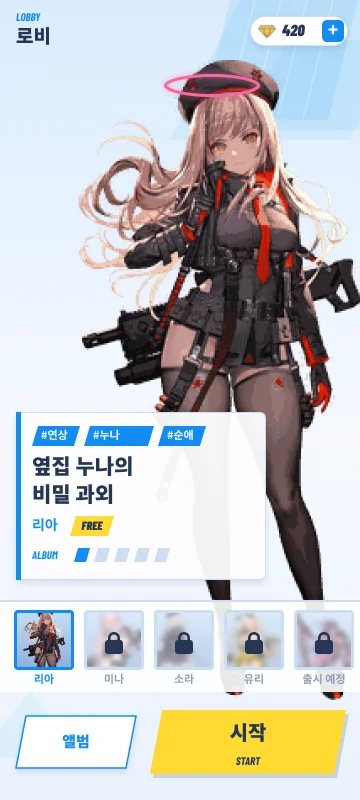
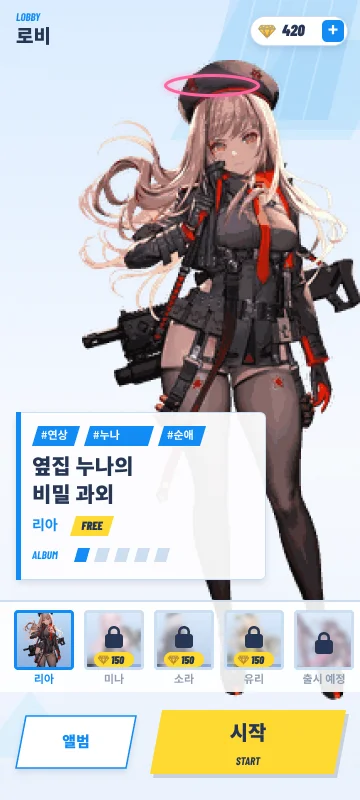
Mockup: original pacing with faster in-game clear, tap indicators on every auto step; lobby quick-open gem badges
Claude-Session: https://claude.ai/code/session_01QC4LnGUoEV4hPAaGSGh6GF

Changed region(s): [[0.4278, 0.7812, 0.5806, 0.8438], [0.2444, 0.7812, 0.3972, 0.8438], [0.6417, 0.7812, 0.7639, 0.8438]]

diff --git a/japan-project/jintori-mockup/index.html b/japan-project/jintori-mockup/index.html
@@ -60,6 +60,9 @@ html,body{margin:0;height:100%;background:var(--bg);color:var(--ink);font-family
 .pwrap img{width:100%;display:block}
 .veil{position:absolute;left:0;right:0;bottom:0;height:20%;background:rgba(230,240,255,.55);backdrop-filter:blur(9px);-webkit-backdrop-filter:blur(9px);transition:height 1.1s ease}
 .chip{display:inline-block;background:var(--accent2);color:#fff;font:900 italic 18px/1 "Barlow Condensed",system-ui;padding:6px 14px;transform:skewX(-12deg);margin-bottom:8px}
+.tap{position:absolute;width:44px;height:44px;margin:-22px 0 0 -22px;border-radius:50%;background:rgba(255,102,153,.35);border:3px solid #fff;box-shadow:0 0 0 3px rgba(255,102,153,.6);pointer-events:none;z-index:30;display:none}
+.tap.on{display:block;animation:tapk .5s ease-out}
+@keyframes tapk{0%{transform:scale(1.6);opacity:0}60%{transform:scale(.85);opacity:1}100%{transform:scale(1)}}
 .finger{position:absolute;width:26px;height:26px;margin:-13px 0 0 -13px;border-radius:50%;border:3px solid #fff;background:rgba(255,102,153,.55);box-shadow:0 0 0 3px rgba(255,102,153,.35);pointer-events:none;z-index:4;display:none}
 </style>
 </head>
@@ -68,7 +71,7 @@ html,body{margin:0;height:100%;background:var(--bg);color:var(--ink);font-family
   <div class="hud"><div class="stage"><span id="stageT">STAGE 1-1</span></div><div class="timer" id="timer">01:30</div></div>
   <div class="bar"><div class="pct" id="pct">0%</div><div class="track"><div class="fill" id="fill"></div><div class="goal"></div></div></div>
   <canvas id="board" width="296" height="380" aria-label="땅따먹기 퍼즐 보드"></canvas>
-  <div class="finger" id="finger"></div>
+  <div class="finger" id="finger"></div><div class="tap" id="tap"></div>
   <div class="chat" id="chat"><img src="avatar.webp" alt=""><div><b>리아</b><p id="chatText"></p></div></div>
   <div class="pop" id="pop"></div>
   <div class="foot"><div class="hint" id="hint">테두리에서 출발해 선을 긋고, 다시 테두리로 돌아오면 영역을 먹어요</div>
@@ -96,8 +99,8 @@ html,body{margin:0;height:100%;background:var(--bg);color:var(--ink);font-family
     <div class="row"><button class="btn" id="toFlow" type="button">챕터 맵으로 ▶</button><button class="btn ghost" id="again" type="button">다시 하기</button></div>
   </div></div>
 
-  <div class="ov" id="flow" style="padding:0;background:#000"><img id="flowImg" alt="" style="width:100%;height:100%;object-fit:cover;object-position:top;display:block;cursor:pointer">
-    <div style="position:absolute;left:0;right:0;bottom:0;padding:10px 12px 14px;background:linear-gradient(transparent,rgba(10,18,32,.85));display:flex;align-items:center;gap:10px">
+  <div class="ov" id="flow" style="padding:0;background:var(--bg)"><img id="flowImg" alt="" style="width:100%;height:100%;object-fit:contain;object-position:center top;background:var(--bg);display:block;cursor:pointer">
+    <div style="position:absolute;left:0;right:0;top:0;padding:8px 10px;background:rgba(10,18,32,.78);display:flex;align-items:center;gap:10px">
       <div id="flowCap" style="flex:1;color:#fff;font-weight:900;font-size:14px"></div><button class="btn" id="flowNext" type="button" style="min-width:110px;padding:11px 14px">다음 ▶</button></div></div>
   <div class="ov" id="tov"><div class="card">
     <h2 style="color:var(--accent2)">TIME UP</h2><h3 id="tmsg">조금만 더 열면 사진 1!</h3>
@@ -199,9 +202,9 @@ function afterGain(){
   count();
   var hotJust=false;if(!hotDone&&hotRatio()>.55){hotDone=true;hotJust=true;grow(.05);count();popup('+5%  거, 거긴… 민감한데♡');}
   if(!events.c25&&claimed>=.25){events.c25=true;say('조금만 더… 응원할게♡');}
-  if(!events.q50&&claimed>=.5){events.q50=true;paused=true;setTimeout(askQuestion,auto?(hotJust?900:250):(hotJust?1500:500));}
+  if(!events.q50&&claimed>=.5){events.q50=true;paused=true;setTimeout(askQuestion,hotJust?1500:500);}
   if(!events.c75&&claimed>=.75){events.c75=true;say('거의 다 왔어… 끝까지 봐줘♡');}
-  if(claimed>=.8&&!over){over=true;setTimeout(win,auto?800:1400);}
+  if(claimed>=.8&&!over){over=true;setTimeout(win,1400);}
 }
 
 // ---------- dialogue ----------
@@ -210,7 +213,7 @@ function say(t,bonus){var c=document.getElementById('chat'),p=document.getElemen
 function popup(t){var p=document.getElementById('pop');p.textContent=t;p.classList.add('on');clearTimeout(popT);popT=setTimeout(function(){p.classList.remove('on');},1800);}
 function askQuestion(){paused=true;var o=document.getElementById('qov');o.classList.add('on');
   Array.prototype.forEach.call(o.querySelectorAll('.opt'),function(b){b.classList.remove('pick');});
-  if(auto){setTimeout(function(){var b=o.querySelector('.opt[data-a="like"]');b.classList.add('pick');setTimeout(function(){answer('like');},450);},800);}}
+  if(auto){setTimeout(function(){var b=o.querySelector('.opt[data-a="like"]');tapEl(b,function(){b.classList.add('pick');setTimeout(function(){answer('like');},500);});},1100);}}
 function answer(a){document.getElementById('qov').classList.remove('on');paused=false;lastT=0;
   if(a==='like'){grow(.10);dirtyAll=true;count();say('+10%  …그런 말 하면 반칙이야♡',true);}
   else if(a==='bad'){shrink(.05);count();say('−5%  흥, 몰라.');}
@@ -219,28 +222,30 @@ function answer(a){document.getElementById('qov').classList.remove('on');paused=
 document.querySelectorAll('#qov .opt').forEach(function(b){b.addEventListener('click',function(){if(!auto)answer(b.getAttribute('data-a'));});});
 function win(){paused=true;for(var i=0;i<g.length;i++)if(g[i]!==CLAIM)g[i]=CLAIM;dirtyAll=true;count();
   var t0=performance.now();(function fade(){var k=Math.min(1,(performance.now()-t0)/600);fadeK=k;if(k<1)requestAnimationFrame(fade);else setTimeout(showClear,400);})();}
-var FLOW_MAIN=[['06-map','챕터 맵 · 수위가 점점 높아지는 사진'],['07-ending','엔딩 가챠 · 사진을 다 모으면'],['08-result','결과 · 최고 등급이면 최고 수위 + 짧은 영상']];
-var FLOW_LITE=[["lt01","챕터 맵 · 다음 사진으로"],['lt00','챕터 목록 · 다음 캐릭터']];
+function tapAt(x,y,cb){var t=document.getElementById('tap');t.style.left=x+'px';t.style.top=y+'px';t.classList.remove('on');void t.offsetWidth;t.classList.add('on');setTimeout(function(){t.classList.remove('on');cb&&cb();},650);}
+function tapEl(el,cb){var a=app.getBoundingClientRect(),r=el.getBoundingClientRect(),k=a.width/360;tapAt((r.left+r.width/2-a.left)/k,(r.top+r.height/2-a.top)/k,cb);}
+var FLOW_MAIN=[['06-map','챕터 맵 · 수위가 점점 높아지는 사진',180,740],['07-ending','엔딩 가챠 · 사진을 다 모으면',235,738],['08-result','결과 · 최고 등급이면 최고 수위 + 짧은 영상',255,738]];
+var FLOW_LITE=[['lt01','챕터 맵 · 다음 사진으로',180,738],['lt00','챕터 목록 · 다음 챕터',96,400]];
 var fi=0,flowT=null;
 function flowList(){return LITE?FLOW_LITE:FLOW_MAIN;}
 function showFlow(i){var L=flowList();fi=i;var d=root.getAttribute('data-design')==='a'?'proposal-screens':'proposal-screens-b';
   document.getElementById('flowImg').src='../'+d+'/'+L[i][0]+'.webp';document.getElementById('flowCap').textContent=L[i][1];
   document.getElementById('flowNext').textContent=i<L.length-1?'다음 ▶':'처음부터 ↺';
   document.getElementById('clear').classList.remove('on');document.getElementById('flow').classList.add('on');
-  clearTimeout(flowT);if(autoFlow)flowT=setTimeout(nextFlow,1900);}
+  clearTimeout(flowT);if(autoFlow)flowT=setTimeout(function(){var it=L[i];tapAt(36+it[2]*.8,it[3]*.8,nextFlow);},2300);}
 function nextFlow(){var L=flowList();if(fi<L.length-1)showFlow(fi+1);else{autoFlow=false;document.getElementById('flow').classList.remove('on');document.getElementById('start').classList.add('on');}}
 var autoFlow=false;
 document.getElementById('flowNext').onclick=function(){autoFlow=false;clearTimeout(flowT);nextFlow();};
 document.getElementById('flowImg').onclick=document.getElementById('flowNext').onclick;
 document.getElementById('toFlow').onclick=function(){autoFlow=false;showFlow(0);};
 function showClear(){var c=document.getElementById('clear'),v=document.getElementById('veil');
-  var wasAuto=auto;if(!LITE){c.classList.add('on');stopAuto();if(wasAuto){autoFlow=true;flowT=setTimeout(function(){showFlow(0);},1600);}return;}
+  var wasAuto=auto;if(!LITE){c.classList.add('on');stopAuto();if(wasAuto){autoFlow=true;flowT=setTimeout(function(){tapEl(document.getElementById('toFlow'),function(){showFlow(0);});},2000);}return;}
   document.getElementById('clrH').textContent='CLEAR!';document.getElementById('clrChip').style.display='inline-block';
   document.getElementById('clrT').textContent='사진 2 · 80% → 100%';document.getElementById('clrP').textContent='판을 깰 때마다 사진이 조금씩 열려요';
   document.getElementById('again').style.visibility='hidden';document.getElementById('toFlow').style.visibility='hidden';v.style.transition='none';v.style.height='20%';c.classList.add('on');
   setTimeout(function(){v.style.transition='';v.style.height='0';},700);
   setTimeout(function(){document.getElementById('clrH').textContent='사진 2 완성!';document.getElementById('clrChip').style.display='none';
-    document.getElementById('clrT').textContent='리아';document.getElementById('clrP').textContent='"…다음 사진은 더 보여줄게♡"';document.getElementById('toFlow').textContent='맵으로 ▶';document.getElementById('again').style.display='none';document.getElementById('toFlow').style.visibility='';stopAuto();if(wasAuto){autoFlow=true;flowT=setTimeout(function(){showFlow(0);},1500);}},1800);}
+    document.getElementById('clrT').textContent='리아';document.getElementById('clrP').textContent='"…다음 사진은 더 보여줄게♡"';document.getElementById('toFlow').textContent='맵으로 ▶';document.getElementById('again').style.display='none';document.getElementById('toFlow').style.visibility='';stopAuto();if(wasAuto){autoFlow=true;flowT=setTimeout(function(){tapEl(document.getElementById('toFlow'),function(){showFlow(0);});},1800);}},1800);}
 var fadeK=0;
 function timeUp(){if(LITE){popup('시간 끝! 바로 다시 도전');var a=auto;setTimeout(function(){reset();if(a){auto=true;}},900);paused=true;return;}paused=true;over=true;document.getElementById('tmsg').textContent=Math.max(1,80-Math.floor(claimed*100))+'%만 더 열면 사진 1!';document.getElementById('tov').classList.add('on');stopAuto();}
 function hideAll(){var tf=document.getElementById('toFlow');if(tf){tf.textContent='챕터 맵으로 ▶';document.getElementById('again').style.display='';}clearTimeout(flowT);autoFlow=false;document.getElementById('flow').classList.remove('on');var v=document.getElementById('veil');if(v)v.style.height='0';document.getElementById('clrChip').style.display='none';document.getElementById('again').style.visibility='';document.getElementById('toFlow').style.visibility='';if(!LITE){document.getElementById('clrH').textContent='STAGE CLEAR';document.getElementById('clrT').textContent='사진 1 획득!';document.getElementById('clrP').textContent='"…다음 사진은 더 보여줄게♡"';}['qov','clear','tov'].forEach(function(id){document.getElementById(id).classList.remove('on');});fadeK=0;}
@@ -342,7 +347,7 @@ document.getElementById('again').onclick=function(){auto?startAuto():startPlay()
 document.getElementById('retry').onclick=startPlay;
 
 // ---------- loop ----------
-var STEP=0.028,ASTEP=0.016;
+var STEP=0.028,ASTEP=0.012;
 function frame(t){
   var dt=lastT?Math.min(.05,(t-lastT)/1000):0;lastT=t;
   if(!paused&&!over){
